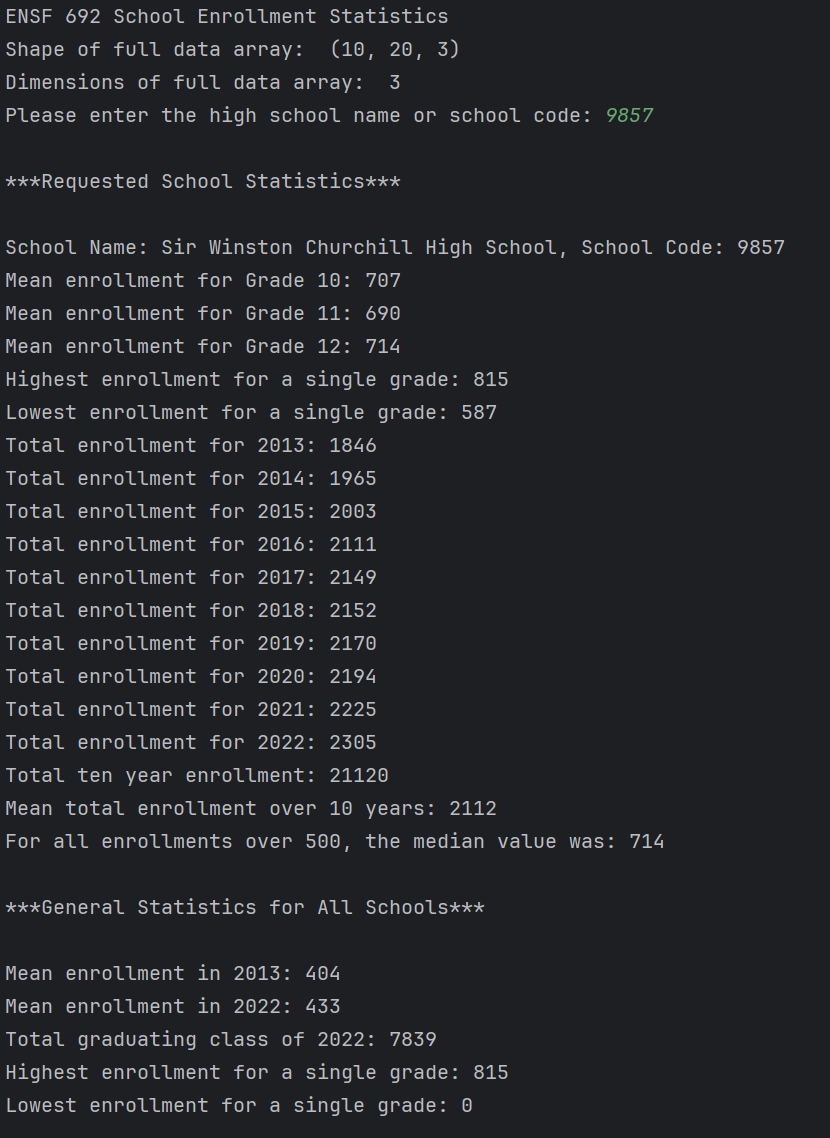
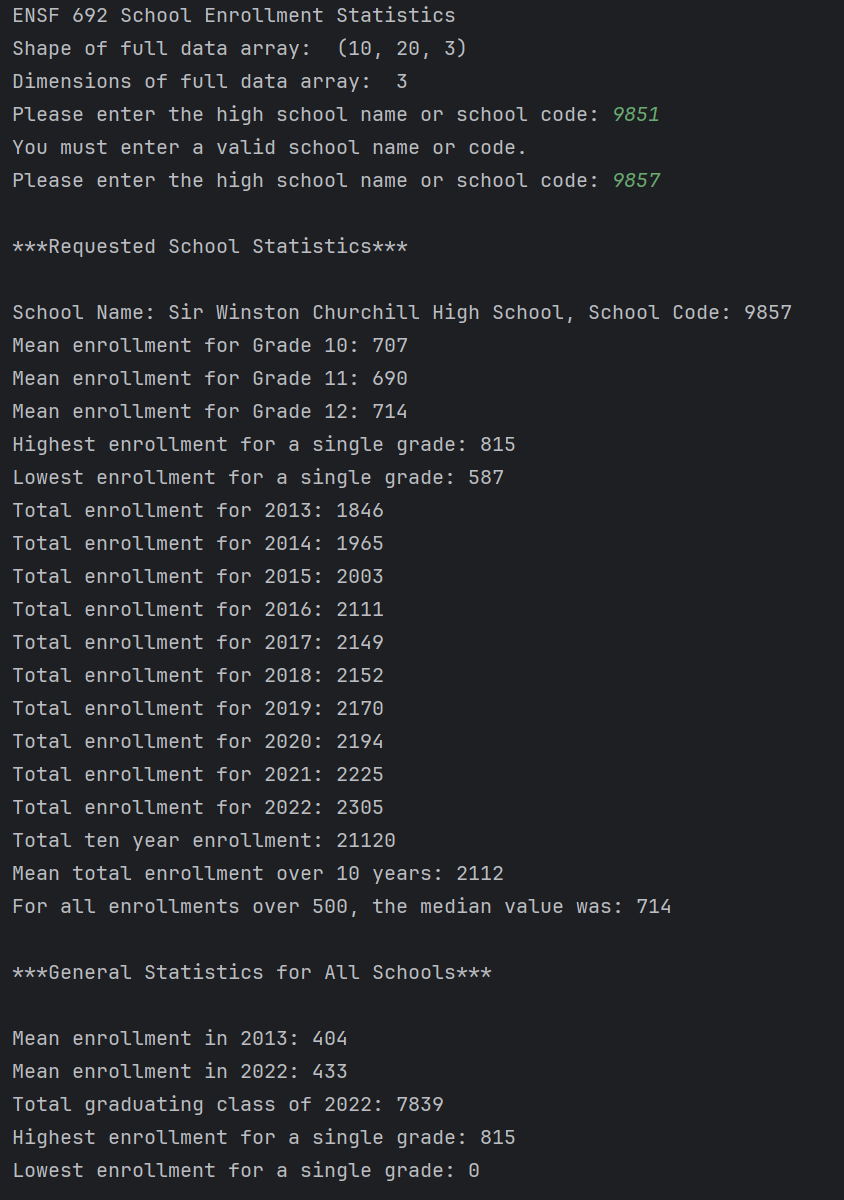
Refactor codes following the grading rubric

diff --git a/Assignment_3/school_data.py b/Assignment_3/school_data.py
@@ -107,6 +107,8 @@ def get_school_stats(school_index):
     print(f"Mean enrollment for Grade 12: {mean_enrollment_grade12}")
     print(f"Highest enrollment for a single grade: {highest_enrollment}")
     print(f"Lowest enrollment for a single grade: {lowest_enrollment}")
+
+    # Iterate over the array to print the enrollment for each year
     for year, enrollment in zip(range(2013, 2023), total_enrollment_each_year):
         print(f"Total enrollment for {year}: {enrollment}")
     print(f"Total ten year enrollment: {total_ten_year_enrollment}")
@@ -147,18 +149,22 @@ def main():
     print("Shape of full data array: ", reshaped_data.shape)
     print("Dimensions of full data array: ", reshaped_data.ndim)
 
-    # Prompt for user input
-    school_input = input("Please enter the high school name or school code: ")
+    # Exception handling using a while loop:
+    # If the users input the invalid school names or codes,
+    # the program will ask them to input again.
+    while True:
+        # Prompt for user input
+        school_input = input("Please enter the high school name or school code: ")
+        try:
+            school_index = get_school_index(school_input)
+            break
+        except ValueError as e:
+            print(e)
 
     # Print Stage 2 requirements here
     print("\n***Requested School Statistics***\n")
-
-    # Exception handling: If there is no ValueError, then it will call the functions defined above.
-    try:
-        school_index = get_school_index(school_input)
-        get_school_stats(school_index)
-    except ValueError as e:
-        print(e)
+    # Call the function defined above to get the statistics of a specific school.
+    get_school_stats(school_index)
 
     # Print Stage 3 requirements here
     print("\n***General Statistics for All Schools***\n")
